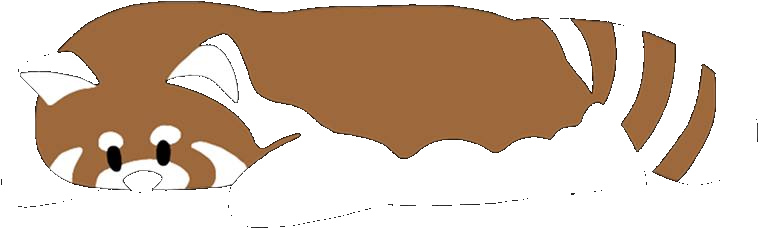
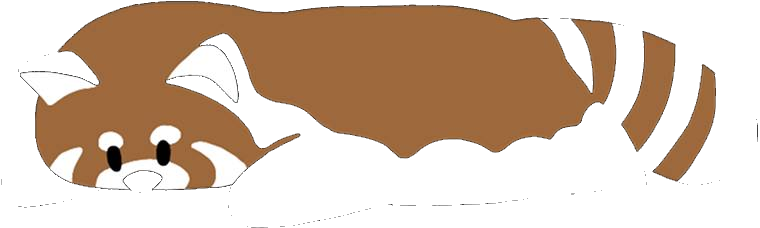
shrink stat_panda to h-16, fix edge artifacts in transparent PNG
Reduced displayed size from h-32 to h-16 (64px). Also regenerated
stat_panda.png with edge feathering — dark anti-aliased pixels adjacent
to transparent areas are now faded out so the panda looks clean on
light backgrounds.

https://claude.ai/code/session_01EhQskdRWuutr4ZsgWeQcsY

diff --git a/src/app/page.tsx b/src/app/page.tsx
@@ -911,10 +911,10 @@ export default function Home() {
           <img
             src="/stat_panda.png"
             alt=""
-            className="absolute left-1/2 top-0 z-10 h-32 w-auto -translate-x-1/2 -translate-y-1/2"
+            className="absolute left-1/2 top-0 z-10 h-16 w-auto -translate-x-1/2 -translate-y-1/2"
             draggable={false}
           />
-          <div className="pt-16">
+          <div className="pt-8">
           <Calendar
             month={new Date(activeMonth.getFullYear(), activeMonth.getMonth(), 1)}
             monthLabel={activeMonthLabel}
